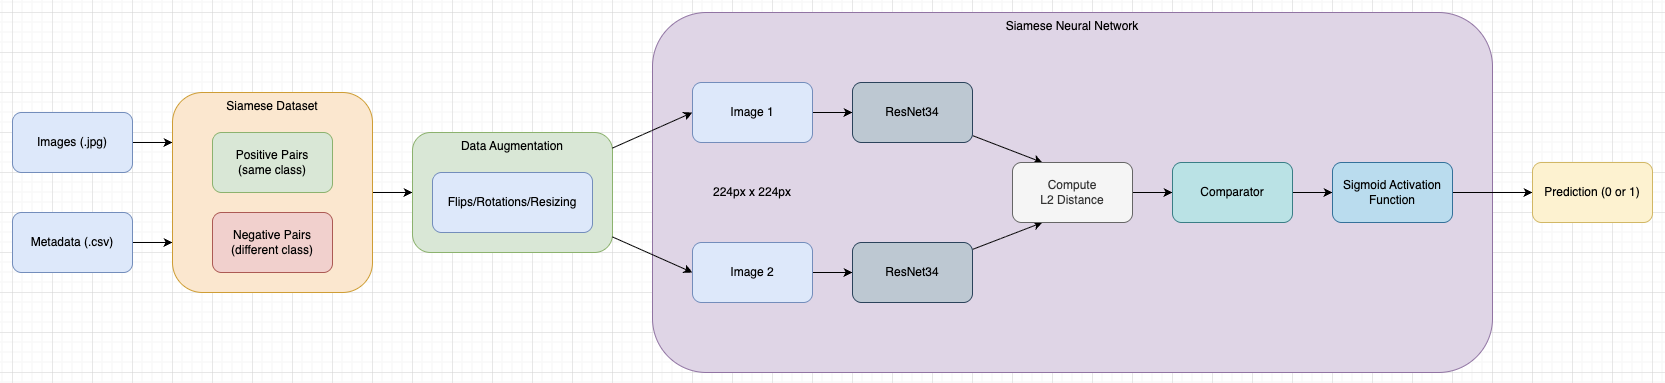
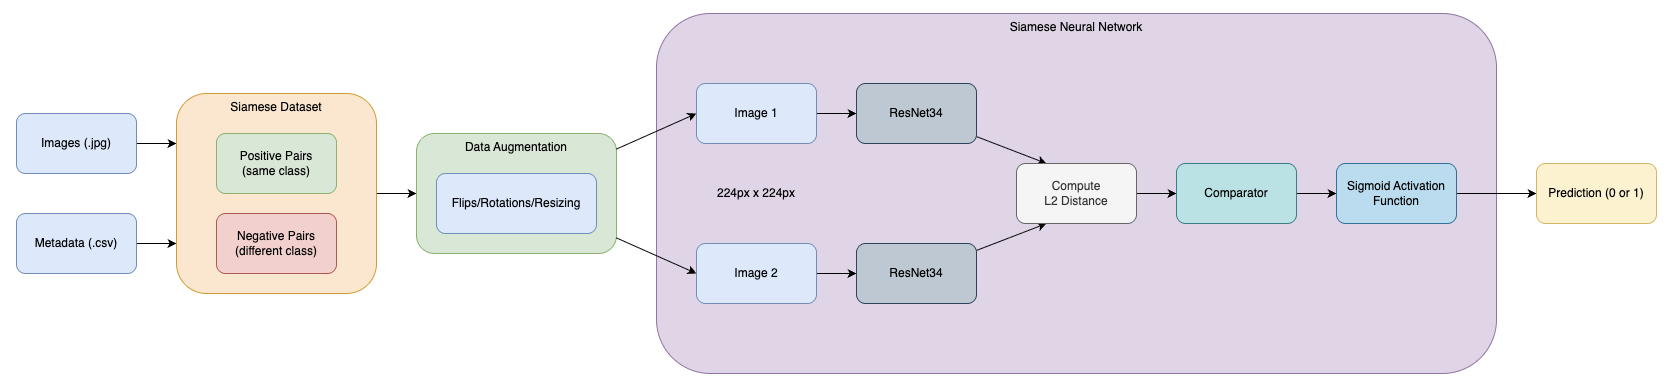
refactor: Refactored/edited all case studies.
Refactored 404 page and background.
Editing Spotlightborder.tsx (WIP).

diff --git a/src/components/SpotlightBorder.tsx b/src/components/SpotlightBorder.tsx
@@ -1,24 +1,20 @@
 "use client";
 
-import { useRef, useState, useCallback, type CSSProperties, type ReactNode } from "react";
-import { Flex } from "@once-ui-system/core";
+import { type ReactNode, useRef, useState, useCallback } from "react";
+import { type Colors, Flex } from "@once-ui-system/core";
 
 interface SpotlightBorderProps {
   children: ReactNode;
-  /** Border radius — accepts any CSS value or a Once UI token e.g. "var(--radius-l)" */
-  radius?: string;
   /** Border thickness in px */
-  borderWidth?: number;
+  background: Colors | "surface" | "overlay" | "page" | "transparent";
   /** Colour of the spotlight glow on the border */
   spotlightColor?: string;
   /** How wide the spotlight cone is in px */
   spotlightSize?: number;
   /** Background of the card interior — use your Once UI surface token */
-  innerBackground?: string;
+  innerBackground?: Colors | "surface" | "overlay" | "page" | "transparent";
   /** Subtle border shown when the cursor is not over the card */
-  defaultBorderColor?: string;
-  style?: CSSProperties;
-  className?: string;
+  defaultBorderColor?: Colors;
 }
 
 /**
@@ -32,41 +28,24 @@ interface SpotlightBorderProps {
  *                          hiding the gradient underneath it.
  *   Layer 2 (border-box):  a radial-gradient that bleeds into the transparent
  *                          `border`, creating the glowing stroke.
- *
- * No CSS / SCSS files needed — everything lives in inline styles.
  */
-export const SpotlightBorder = ({
+export function SpotlightBorder({
   children,
-  radius = "var(--radius-l)",
-  borderWidth = 1,
+  background = "page",
   spotlightColor = "rgba(255, 110, 60, 0.9)",
-  spotlightSize = 280,
-  innerBackground = "var(--page-background)",
-  defaultBorderColor = "rgba(255, 255, 255, 0.07)",
-  style,
-  className,
-}: SpotlightBorderProps) => {
+  spotlightSize = 80,
+  innerBackground = "page",
+  defaultBorderColor = "neutral-weak",
+}: SpotlightBorderProps) {
   const ref = useRef<HTMLDivElement>(null);
   const [pos, setPos] = useState({ x: 0, y: 0 });
   const [hovered, setHovered] = useState(false);
 
-  const handleMouseMove = useCallback(
-    (e: React.MouseEvent<HTMLDivElement>) => {
-      if (!ref.current) return;
-      const { left, top } = ref.current.getBoundingClientRect();
-      setPos({ x: e.clientX - left, y: e.clientY - top });
-    }, []
-  );
-
-  /**
-   * When hovered: a radial-gradient centred at the cursor position.
-   * When idle:    a flat, barely-visible colour so the container still
-   *               has a hint of a border (optional — set to "transparent"
-   *               if you want it fully invisible when not hovered).
-   */
-  const borderLayer = hovered
-    ? `radial-gradient(${spotlightSize}px circle at ${pos.x}px ${pos.y}px, ${spotlightColor}, transparent 80%)`
-    : defaultBorderColor;
+  const handleMouseMove = useCallback((e: React.MouseEvent<HTMLDivElement>) => {
+    if (!ref.current) return;
+    const { left, top } = ref.current.getBoundingClientRect();
+    setPos({ x: e.clientX - left, y: e.clientY - top });
+  }, []);
 
   return (
     <Flex
@@ -74,23 +53,19 @@ export const SpotlightBorder = ({
       onMouseMove={handleMouseMove}
       onMouseEnter={() => setHovered(true)}
       onMouseLeave={() => setHovered(false)}
-      className={className}
+      radius="l"
       style={{
-        borderRadius: radius,
-        // `border` must use `transparent` so the background shows through.
-        border: `${borderWidth}px solid transparent`,
-        /**
-         * Two backgrounds stacked:
-         *  1. innerBackground padding-box  → fills content area, hides gradient
-         *  2. borderLayer     border-box   → visible only in the transparent border strip
-         */
-        background: `${innerBackground} padding-box, ${borderLayer} border-box`,
-        // Smooth fade when entering / leaving hover
+        padding: "1px",
+        // Only the gradient itself needs raw CSS — everything else is tokenised
+        background: hovered
+          ? `radial-gradient(${spotlightSize}px circle at ${pos.x}px ${pos.y}px, ${spotlightColor}, transparent 80%)`
+          : "var(--neutral-alpha-weak)", // Once UI token for the resting border
         transition: hovered ? "none" : "background 0.4s ease",
-        ...style,
       }}
     >
-      {children}
+      <Flex direction="column" background={background} fillWidth radius="l">
+        {children}
+      </Flex>
     </Flex>
   );
-};
+}

diff --git a/src/app/not-found.tsx b/src/app/not-found.tsx
@@ -1,4 +1,4 @@
-import { Column, Heading } from "@once-ui-system/core";
+import { Column, Heading, Particle } from "@once-ui-system/core";
 
 export default function NotFound() {
   return (
@@ -6,22 +6,37 @@ export default function NotFound() {
       fill
       center
       background="neutral-weak"
-      style={{ 
+      style={{
         marginTop: "-8rem",
         marginBottom: "-8rem",
         minHeight: "100vh",
         minWidth: "100vw"
       }}
     >
-      <Heading marginBottom="m" variant="display-strong-xl">
-        404
-      </Heading>
-      <Heading marginBottom="l" variant="display-default-m">
-        Page Not Found
-      </Heading>
-      <Heading variant="body-default-xl" onBackground="neutral-weak">
-        The page you're looking for doesn't exist.
-      </Heading>
+      <Particle
+        fill
+        interactive
+        mode="repel"
+        speed={1.5}
+        density={80}
+        size="4"
+        color="neutral-on-background-strong"
+        style={{
+          position: "absolute",
+          inset: 0
+        }}
+      />
+      <Column center>
+        <Heading marginBottom="24" variant="display-strong-xl">
+          404
+        </Heading>
+        <Heading marginBottom="40" variant="display-default-m">
+          Page Not Found
+        </Heading>
+        <Heading variant="body-default-xl" onBackground="neutral-weak">
+          The page you're looking for doesn't exist.
+        </Heading>
+      </Column>
     </Column>
   );
 }

diff --git a/src/app/layout.tsx b/src/app/layout.tsx
@@ -147,8 +147,10 @@ export default async function RootLayout({children}: Readonly<{children: React.R
                 flicker
                 revealFrom="top"
                 colors={[
-                  "brand-on-background-medium",
+                  "accent-on-background-weak",
                   "accent-on-background-medium",
+                  "brand-on-background-weak",
+                  "brand-on-background-medium",
                   "neutral-on-background-strong",
                 ]}
               >
@@ -208,7 +210,7 @@ export default async function RootLayout({children}: Readonly<{children: React.R
             }}
           >
             <RevealFx fill position="absolute" delay={1}>
-              <Particle fill speed={1.5} density={250} size="4" color="brand-background-strong" />
+              <Particle fill speed={1.5} density={150} size="4" color="brand-on-background-weak" />
             </RevealFx>
           </Flex>
           <Flex fillWidth minHeight="8" s={{ hide: true }} />

diff --git a/src/app/gallery/page.tsx b/src/app/gallery/page.tsx
@@ -1,7 +1,7 @@
 import { Flex, Heading, Logo, Meta, RevealFx, Row, Schema } from "@once-ui-system/core";
 import { baseURL, gallery, person } from "@/resources";
 import { GalleryView } from "@/components/gallery/Gallery";
-import { PicTimeIntegration } from "@/components/gallery/PicTime";
+import { PicTime } from "@/components/gallery/PicTime";
 
 export async function generateMetadata() {
   return Meta.generate({
@@ -60,7 +60,7 @@ export default function Gallery() {
         s={{ style: { height: "370vh" }}}
         m={{ style: { height: "210vh" }}}
       >
-        <PicTimeIntegration />
+        <PicTime />
       </RevealFx>
     </Flex>
   );

diff --git a/src/components/Reveal.tsx b/src/components/Reveal.tsx
@@ -1,10 +1,10 @@
 "use client";
 
-import { useEffect, useRef, useState } from "react";
+import { type ReactNode, useEffect, useRef, useState } from "react";
 import { Flex, RevealFx, type SpacingToken } from "@once-ui-system/core";
 
 interface RevealProps {
-  children: React.ReactNode;
+  children: ReactNode;
   translateY?: number | SpacingToken;
   fillWidth?: boolean;
   horizontal?: "start" | "center" | "end";

diff --git a/src/components/index.ts b/src/components/index.ts
@@ -9,5 +9,6 @@ export { Bounce } from "@/components/Bounce";
 export { Loading } from "@/components/Loading";
 export { Reveal } from "@/components/Reveal";
 export { Scroll } from "@/components/Scroll";
+export { SpotlightBorder } from "@/components/SpotlightBorder";
 export { ThemeToggle } from "@/components/ThemeToggle";
 export { CustomMDX } from "@/components/mdx";

diff --git a/src/components/gallery/PicTime.tsx b/src/components/gallery/PicTime.tsx
@@ -3,7 +3,7 @@
 import { Flex } from '@once-ui-system/core';
 import Script from 'next/script';
 
-export function PicTimeIntegration() {
+export function PicTime() {
   return (
     <Flex style={{ width: "100%", height: "100%" }}>
       <Script

diff --git a/src/resources/content.tsx b/src/resources/content.tsx
@@ -310,7 +310,7 @@ const about: About = {
 const work: Work = {
   path: "/work",
   label: "Software",
-  title: "Projects",
+  title: "Case Studies",
   description: `Software projects by ${person.name}`,
 };
 
